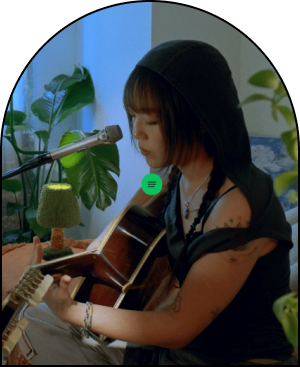
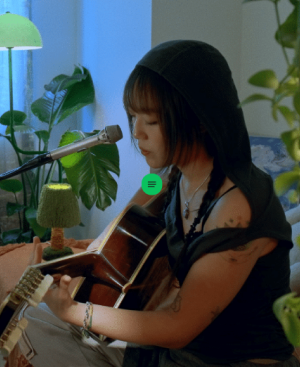
commit

Changed region(s): [[0.0, 0.0, 1.0, 1.0], [0.0, 0.8992, 0.42, 1.0], [0.51, 0.9891, 0.6, 1.0]]

diff --git a/css/main.css b/css/main.css
@@ -354,8 +354,8 @@
 @media (max-width: 767px){
 
   #libraryWrap{padding: 190px 0 78px;}
-  #libraryWrap .libraryListBox .libraryList{gap: 60px 2.2%;}
-  #libraryWrap .libraryListBox .libraryList li{width: 48.9%;}
+  #libraryWrap .libraryListBox .libraryList{gap: 60px 3.3%;}
+  #libraryWrap .libraryListBox .libraryList li{width: 48.3%;}
   #libraryWrap::after{left: 5.5%; top: 50px;}
   #libraryWrap .libraryListBox .libraryList::after{top:-30px; right: -20px; width: 78px; height: 69px;}
   #libraryWrap .libraryListBox .libraryList::before{display: none;}
@@ -377,9 +377,18 @@
 
 }
 
+@media (max-width: 480px){
+
+  #libraryWrap .libraryListBox .libraryList{gap: 60px 3.5%;}
+  #libraryWrap .libraryListBox .libraryList li{width: 48.2%;}
+
+}
+
 @media (max-width: 414px){
 
   #libraryWrap::after{width: 66px;height: 68px;}
+  #libraryWrap .libraryListBox .libraryList{gap: 60px 4.2%;}
+  #libraryWrap .libraryListBox .libraryList li{width: 47.9%;}
 
 }
 
@@ -406,7 +415,7 @@
 #wellnessWrap .wellnessListBox .wellnessList li a{display: block;}
 #wellnessWrap .wellnessListBox .wellnessList li a:hover .imgBox::before{opacity: 1; z-index: 2;}
 #wellnessWrap .wellnessListBox .wellnessList li a:hover .imgBox::after{opacity: 1; z-index: 1;}
-#wellnessWrap .wellnessListBox .wellnessList li a .imgBox{position: relative; /*padding-top: 105.4%;*/ margin-bottom: 24px; /*height: 0; border: 2px solid #000;*/ overflow: hidden; z-index: 1;}
+#wellnessWrap .wellnessListBox .wellnessList li a .imgBox{position: relative; /*padding-top: 105.4%;*/ margin-bottom: 24px; /*height: 0; border: 2px solid #000;*/ overflow: hidden; z-index: 1; border-radius: 150px 150px 0 0; border: 2px solid #000;}
 #wellnessWrap .wellnessListBox .wellnessList li a .imgBox img{/*position: absolute; top:0; left:0; right:0; bottom: 0;*/ display: block; width: 100%; height: 100%; object-fit: cover;}
 #wellnessWrap .wellnessListBox .wellnessList li a .imgBox::after{opacity: 0; content: ''; position: absolute; top:0; right:0; bottom: 0; left:0; background-color: rgba(0,0,0,.6); transition: all .3s;}
 #wellnessWrap .wellnessListBox .wellnessList li a .imgBox::before{opacity: 0; width: 80px; height: 80px; content: ''; position: absolute; top: 50%; left: 50%; transform: translate(-50%, -50%); background: url(../images/hover_arrow_icon.svg)no-repeat center; background-size: cover; transition: all .3s;}
@@ -438,8 +447,9 @@
 @media (max-width: 767px){
 
   #wellnessWrap{padding: 190px 0 78px;}
-  #wellnessWrap .wellnessListBox .wellnessList{gap: 60px 2.2%;}
-  #wellnessWrap .wellnessListBox .wellnessList li{width: 48.9%;}
+  #wellnessWrap .wellnessListBox .wellnessList{gap: 60px 3.3%;}
+  #wellnessWrap .wellnessListBox .wellnessList li a .imgBox{border-radius: 178px 178px 0 0;}
+  #wellnessWrap .wellnessListBox .wellnessList li{width: 48.3%;}
   #wellnessWrap  .titleBox{margin-bottom: 41px;}
   #wellnessWrap .wellnessListBox .wellnessList li a .textBox h3{font-size: 16px;}
   #wellnessWrap .wellnessListBox .wellnessList li a .textBox p{font-size: 14px;}
@@ -454,6 +464,22 @@
 
   #wellnessWrap .wellnessListBox .wellnessList li a .textBox p{font-size: 12px;}
   #wellnessWrap .imgBox01{top: -85px;width: 163px; height: 175px;}
+  #wellnessWrap .wellnessListBox .wellnessList li a .imgBox::before{width: 60px; height: 60px;}
+
+}
+
+@media (max-width: 480px){
+
+  #wellnessWrap .wellnessListBox .wellnessList{gap: 60px 3.5%;}
+  #wellnessWrap .wellnessListBox .wellnessList li{width: 48.2%;}
+  #wellnessWrap .wellnessListBox .wellnessList li a .imgBox::before{width: 40px; height: 40px;}
+
+}
+
+@media (max-width: 414px){
+
+  #wellnessWrap .wellnessListBox .wellnessList{gap: 60px 4.2%;}
+  #wellnessWrap .wellnessListBox .wellnessList li{width: 47.9%;}
 
 }
 
